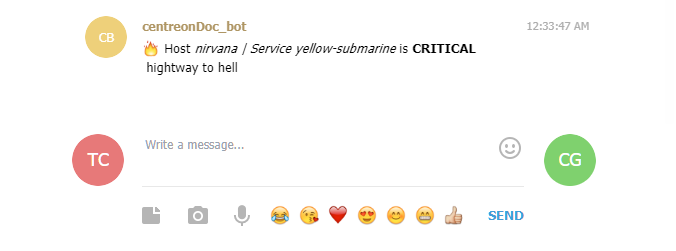
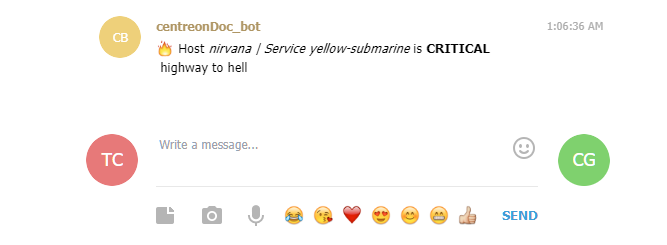
enh(doc) add a quick plugn options rundown

diff --git a/en/integrations/notifications/telegram.md b/en/integrations/notifications/telegram.md
@@ -94,7 +94,7 @@ for example, if the url is as follow: **https://web.telegram.org/#/im?p=g123456*
 `
 /usr/lib/centreon/git-plugins/centreon-plugins/centreon_plugins.pl --plugin=notification::telegram::plugin --mode=alert
 --http-peer-addr='api.telegram.org' --bot-token='xxxxxxxxxxxxxxxxxxxxxxxxxxxxxxxxxxx' --chat-id='-xxxxxxxx'
---host-name='nirvana'  --service-description='yellow-submarine' --service-state=CRITICAL  --service-output='hightway to hell'
+--host-name='nirvana'  --service-description='yellow-submarine' --service-state=CRITICAL  --service-output='highway to hell'
 `
 
 ![service notification](../../assets/integrations/notifications/telegram/service-notification-telegram.png)
@@ -106,3 +106,19 @@ for example, if the url is as follow: **https://web.telegram.org/#/im?p=g123456*
 `
 
 ![host notification](../../assets/integrations/notifications/telegram/host-notification-telegram.png)
+
+## Message options
+
+When sending your notification you can add various options that you can list using the `--help` option of the Centreon plugin
+Below are some of the available options
+
+| Options | Explanation | Example |
+| ------- | ----------- | ------- |
+| --centreon-token | an autologin token from centreon ||
+| --centreon-url | the centreon url ||
+| --graph-url | graph url. You can use the above options as macro here | **%{centreon_url}**/include/views/graphs/generateGraphs/generateImage.php?username=myuser&token=**%{centreon_token}**&hostname=**%{host_name}**&service=**%{service_description}**|
+| --link-url | a link url | **%{centreon_url}**/main.php?p=20201&o=svc&host_search=**%{host_name}**&svc_search=**%{service_description}** |
+| --proxyurl | the url to your proxy if needed ||
+
+all options can be displayed with the following command:
+`/usr/lib/centreon/git-plugins/centreon-plugins/centreon_plugins.pl --plugin=notification::telegram::plugin --mode=alert --help`
